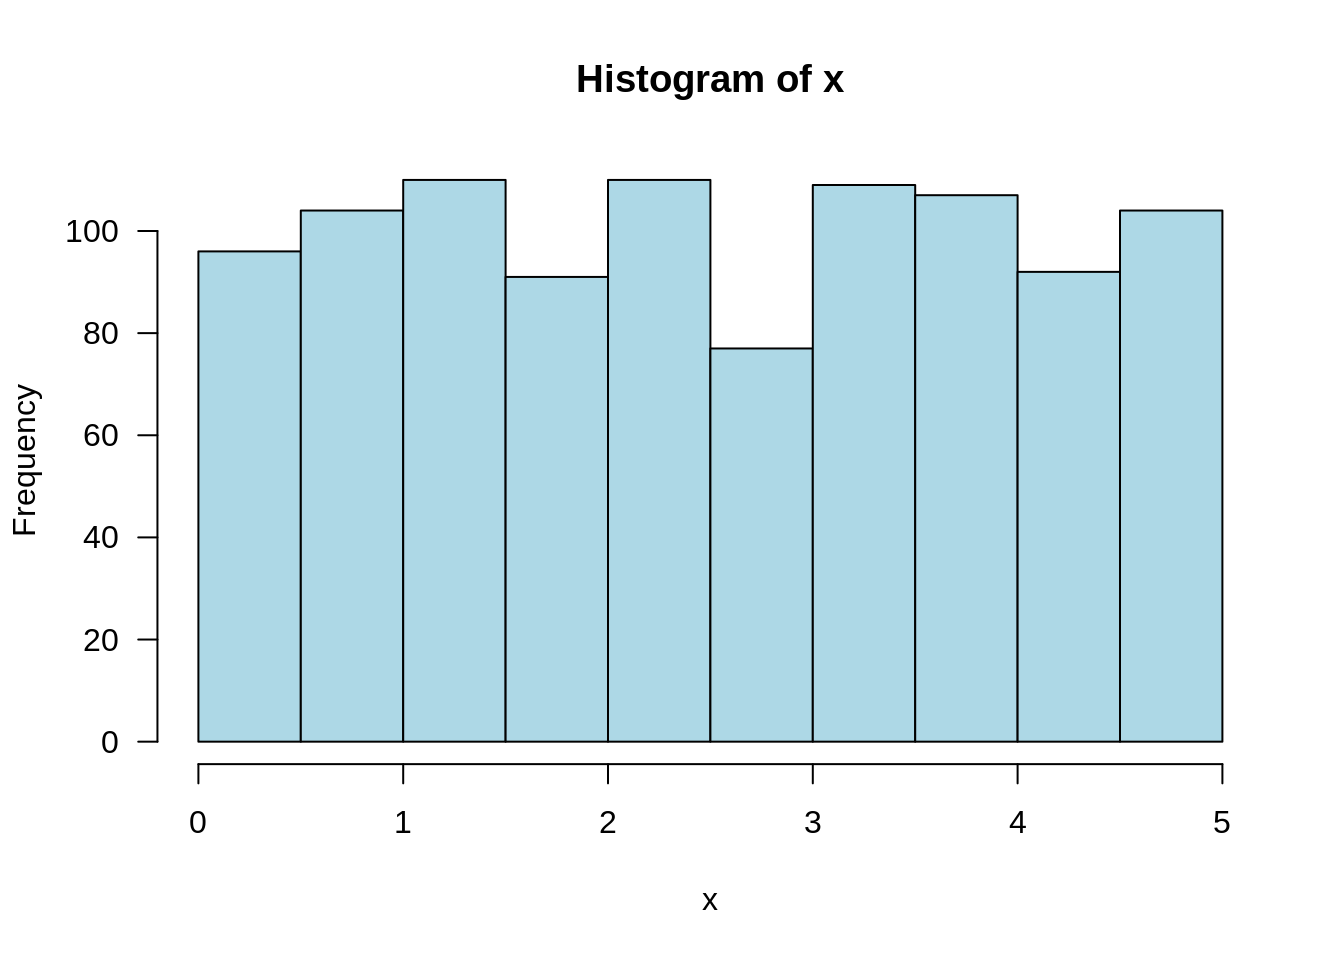
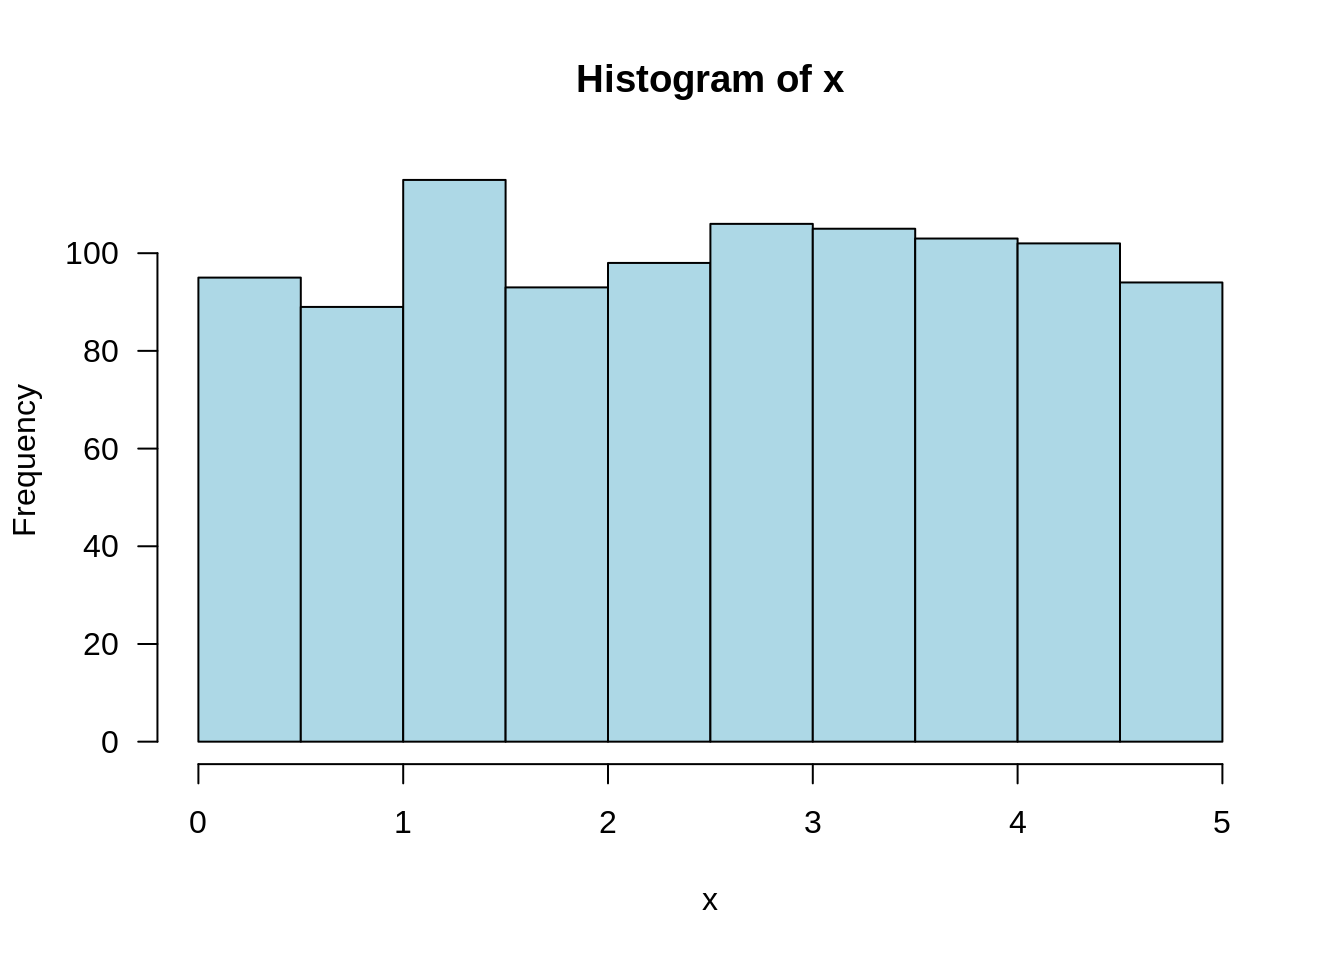
jtr13 published a site update

diff --git a/ch.-4-continuous-random-variables-and-probability-distributions.html b/ch.-4-continuous-random-variables-and-probability-distributions.html
@@ -271,11 +271,11 @@ code span.wa { color: #60a0b0; font-weight: bold; font-style: italic; } /* Warni
 <p>Randomly choose one number from the distribution:</p>
 <p><span class="math inline">\(f(x) = .2\)</span> for <span class="math inline">\(0 \leq x \leq 5\)</span>, 0 otherwise.</p>
 <div class="sourceCode" id="cb151"><pre class="sourceCode r"><code class="sourceCode r"><span id="cb151-1"><a href="ch.-4-continuous-random-variables-and-probability-distributions.html#cb151-1"></a><span class="kw">runif</span>(<span class="dt">n =</span> <span class="dv">1</span>, <span class="dt">min =</span> <span class="dv">0</span>, <span class="dt">max =</span> <span class="dv">5</span>)</span></code></pre></div>
-<pre><code>## [1] 4.882884</code></pre>
+<pre><code>## [1] 4.260299</code></pre>
 <p>Take the average of 1000 picks:</p>
 <div class="sourceCode" id="cb153"><pre class="sourceCode r"><code class="sourceCode r"><span id="cb153-1"><a href="ch.-4-continuous-random-variables-and-probability-distributions.html#cb153-1"></a>x &lt;-<span class="st"> </span><span class="kw">runif</span>(<span class="dt">n =</span> <span class="dv">1000</span>, <span class="dt">min =</span> <span class="dv">0</span>, <span class="dt">max =</span> <span class="dv">5</span>)</span>
 <span id="cb153-2"><a href="ch.-4-continuous-random-variables-and-probability-distributions.html#cb153-2"></a><span class="kw">mean</span>(x)</span></code></pre></div>
-<pre><code>## [1] 2.499696</code></pre>
+<pre><code>## [1] 2.516399</code></pre>
 <p>Draw a histogram of the 1000 picks:</p>
 <div class="sourceCode" id="cb155"><pre class="sourceCode r"><code class="sourceCode r"><span id="cb155-1"><a href="ch.-4-continuous-random-variables-and-probability-distributions.html#cb155-1"></a><span class="kw">hist</span>(x, <span class="dt">las =</span> <span class="dv">1</span>, <span class="dt">col =</span> <span class="st">&quot;lightblue&quot;</span>)</span></code></pre></div>
 <p><img src="STAT1201-resource_files/figure-html/unnamed-chunk-41-1.png" width="672" /></p>
